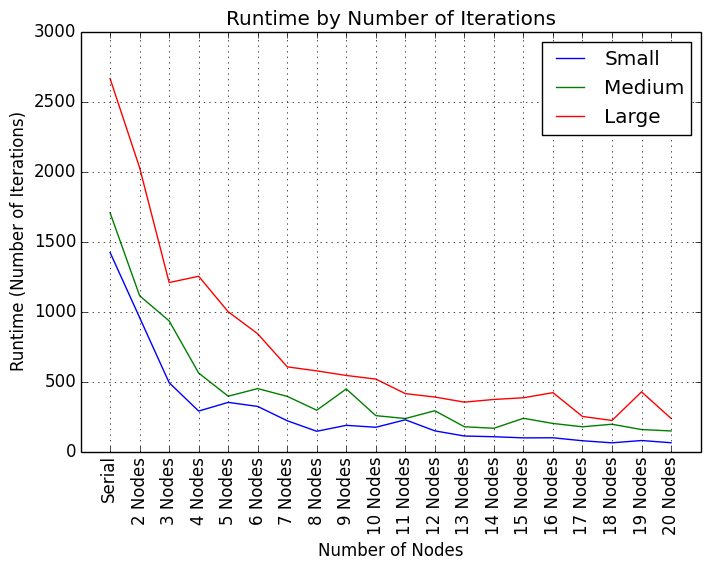
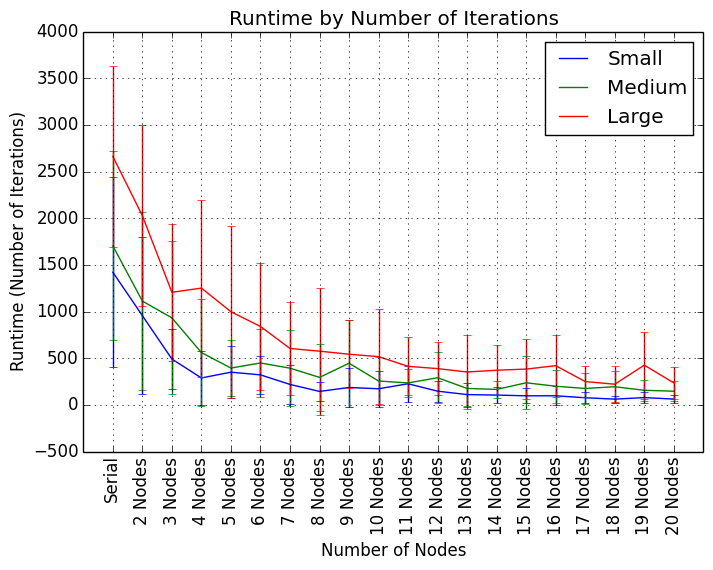
added required error bars

diff --git a/parallel_runtime_compare.py b/parallel_runtime_compare.py
@@ -33,13 +33,21 @@ def main():
         plt.clf()
 
     runtime = {sz: numpy.mean([i[sz] for i in sa_ic], 1) for sz in sizes}
+    std = {sz: numpy.std([i[sz] for i in sa_ic], 1) for sz in sizes}
+
+    x = numpy.arange(len(sa_ic)) + 1
 
     for sz in sizes:
-        plt.plot(list(range(1, len(sa_ic) + 1)), runtime[sz])
+        #plt.plot(x, runtime[sz])
+        errlow = numpy.array(std[sz])
+        errlow[errlow >= runtime[sz]] = runtime[sz][errlow >= runtime[sz]] * .999
+        plt.errorbar(x, runtime[sz], yerr=[errlow,std[sz]])
 
     plt.xticks(numpy.arange(0, 22, 1))
     xtn = plt.setp(plt.axes(), xticklabels=[''] + xticks)
     plt.setp(xtn, rotation=90)
+
+    plt.ylim(1e-1, 1e3)
 
     plt.xlabel('Number of Nodes')
     plt.ylabel('Runtime (s)')
@@ -48,8 +56,7 @@ def main():
 
     plt.legend([sz.capitalize() for sz in sizes])
     plt.title('Parallel Runtime')
-
-    plt.grid()
+    plt.yscale('log')
 
     # plt.show()
     plt.savefig('runtime_parallel.png', bbox_inches='tight')
@@ -58,7 +65,7 @@ def main():
     speedup = {sz: numpy.repeat(runtime[sz][0], len(runtime[sz])) / runtime[sz] for sz in sizes}
 
     for sz in sizes:
-        plt.plot(list(range(1, len(sa_ic) + 1)), speedup[sz])
+        plt.plot(x, speedup[sz])
 
     plt.xticks(numpy.arange(0, 22, 1))
     xtn = plt.setp(plt.axes(), xticklabels=[''] + xticks)
@@ -81,7 +88,7 @@ def main():
     efficiency = {sz: speedup[sz] / (numpy.arange(len(speedup[sz])) + 1) for sz in sizes}
 
     for sz in sizes:
-        plt.plot(list(range(1, len(sa_ic) + 1)), efficiency[sz])
+        plt.plot(x, efficiency[sz])
 
     plt.xticks(numpy.arange(0, 22, 1))
     xtn = plt.setp(plt.axes(), xticklabels=[''] + xticks)

diff --git a/itercount_compare.py b/itercount_compare.py
@@ -33,9 +33,13 @@ def main():
         plt.clf()
 
     runtime = {sz: numpy.mean([i[sz] for i in sa_ic], 1) for sz in sizes}
+    std = {sz: numpy.std([i[sz] for i in sa_ic], 1) for sz in sizes}
+
+    x = numpy.arange(len(sa_ic)) + 1
 
     for sz in sizes:
-        plt.plot(list(range(1, len(sa_ic) + 1)), runtime[sz])
+        # plt.plot(x, runtime[sz])
+        plt.errorbar(x, runtime[sz], std[sz])
 
     plt.xticks(numpy.arange(0, 22, 1))
     xtn = plt.setp(plt.axes(), xticklabels=[''] + xticks)
@@ -58,7 +62,7 @@ def main():
     speedup = {sz: numpy.repeat(runtime[sz][0], len(runtime[sz])) / runtime[sz] for sz in sizes}
 
     for sz in sizes:
-        plt.plot(list(range(1, len(sa_ic) + 1)), speedup[sz])
+        plt.plot(x, speedup[sz])
 
     plt.xticks(numpy.arange(0, 22, 1))
     xtn = plt.setp(plt.axes(), xticklabels=[''] + xticks)
@@ -84,7 +88,7 @@ def main():
     efficiency = {sz: speedup[sz] / (numpy.arange(len(speedup[sz])) + 1) for sz in sizes}
 
     for sz in sizes:
-        plt.plot(list(range(1, len(sa_ic) + 1)), efficiency[sz])
+        plt.plot(x, efficiency[sz])
 
     plt.xticks(numpy.arange(0, 22, 1))
     xtn = plt.setp(plt.axes(), xticklabels=[''] + xticks)
